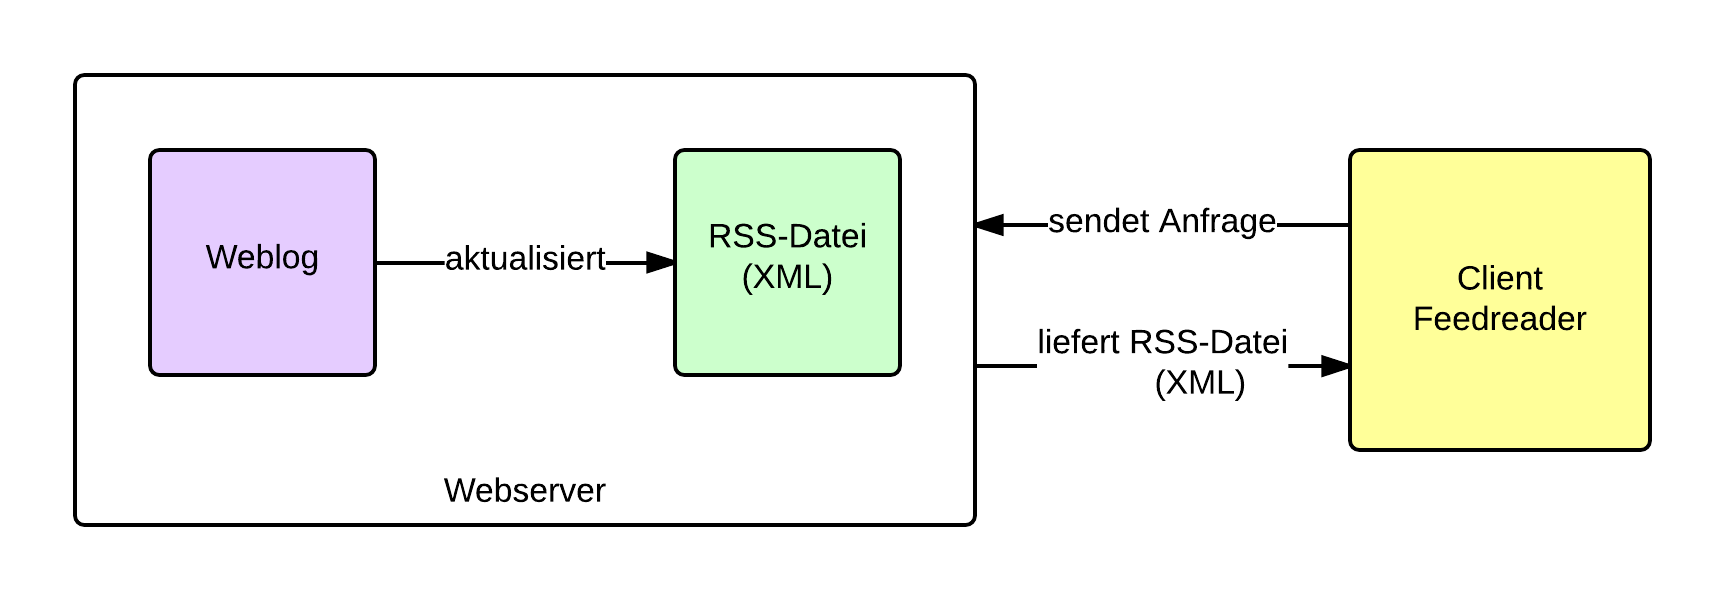
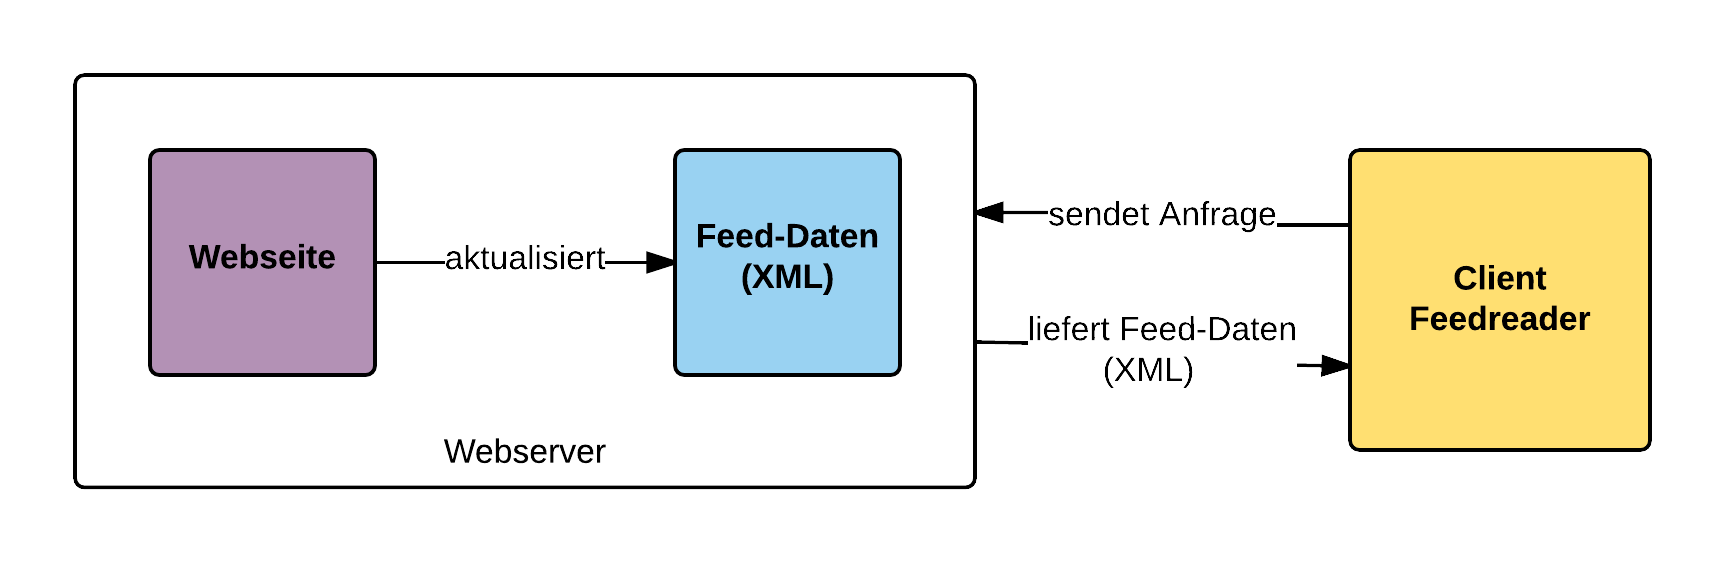
chapter IV modified

diff --git a/rst/IV/index.rst b/rst/IV/index.rst
@@ -14,10 +14,6 @@ Kapitels näher betrachtet.
 Ausgangssituation und Problemstellungen
 =======================================
 
-- Performance
-- update nur, wenn neue Daten vorhanden sind
-- Daten liegen in XML vor
-
 In Abbildung :num:`feedprinzip` ist das
 Funktionsprinzip eines Newsfeeds dargestellt. Es wird angenommen, dass eine
 beliebige Webseite ihre Änderungen über einen Newsfeed mitteilt. 
@@ -82,13 +78,19 @@ ist die URL nicht erreichbar oder der Download wird unterbrochen.
 Lösungsansätze
 ==============
 
+Für die genannten Problemstellungen werden im Folgenden Lösungsanzätze
+diskutiert.
+
+
 Synchroner im Vergleich mit asynchronem Ansatz
 ----------------------------------------------
 
-beschreiben, Ablauf etc.
 möglich mit Universal Feedparser, ...
-In Abbildung :num:`syncasync` ist der zeitliche Ablauf einer synchronen und
-asynchronen Ausführung zu sehen.
+
+Eine Alternative zum synchronen Download der Daten ist der asynchrone Ansatz.
+In Abbildung :num:`syncasync` ist der Ablauf beider Varianten zu sehen. Mit
+Hilfe der Abbildung werden beide Varianten vorgestellt und mögliche Vorzüge des
+asynchronen Ansatzes erläutert.
 
 
 .. _syncasync:
@@ -101,17 +103,77 @@ asynchronen Ausführung zu sehen.
     Schematische Darstellung des synchronen und asynchronen Ansatzes.
 
 
+Jeder Pfeil beschreibt den Ablauf folgender Aufgaben, die abgearbeitet werden
+sollen:
 
-Asynchroner Download
---------------------
-beschreiben, Ablauf etc.
-möglich mit libsoup, ...
+ * Klick auf einen Button, um Download auszulösen
+ * Download von Daten
+ * grafische Benutzeroberfläche: Daten aktualisieren, Benutzereingaben
+   entgegennehmen
+    
+Der klassische synchrone Ansatz verarbeitet die drei Aufgaben nacheinander. Die
+nächste Aufgabe wird erst ausgeführt, sobald die aktuelle beendet ist. Als
+erstes wird der Klick auf den Button verarbeitet, anschließend der Download und
+abschließend die Belange der grafischen Benutzeroberfläche. Ein
+Nachteil dieser Herangehensweise ist, dass während des
+Downloads keinerlei Aktualisierungen oder Eingaben auf der grafischen
+Benutzeroberfläche getätigt werden können. Da ein Download, im Vergleich zu
+einfachen Operationen, wie beispielsweise den Klick auf einen Button, relativ
+viel Zeit in Anspruch nimmt, ist das für die Performance der Anwendung suboptimal.
+
+Aus diesem Grund wird der Download häufig manuell in Teilpakete aufgeteilt.
+Diese Herangehensweise stellt der zweite Pfeil dar. Hier erfolgt ebenso als
+erstes der Klick auf den Button. Anschließend wird der Download, in der
+entsprechend angegebenen Größe abgearbeitet. Darauf folgt die Abarbeitung der
+Anliegen der grafischen Benutzeroberfläche. Dieser Wechsel zwischen Download und
+grafischer Benutzeroberfläche wird bis zum Abschluss des Downloads durchgeführt.
+Auf diese Weise kann der Nachteil des klassischen synchronen Ansatzes umgangen
+werden. Die grafische Benutzeroberfläche hat immer wieder Gelegenheit
+Aktualisierungen durchzuführen und Benutzereingaben entgegenzunehmen. Bei dieser
+Herangehensweise kommt jedoch ein anderer Nachteil hinzu. In der Abbildung wird
+bereits deutlich, dass dieser Ansatz, im Vergleich zum klassischen synchronen
+Ansatz, mehr Zeit in Aspruch nimmt. Nach der Abarbeitung von Aufgaben der
+grafischen Benutzeroberfläche kommt es zu Wartezeiten. Ein Grund dafür ist beispielsweise, dass
+der Download nicht sofort weitergeführt werden kann ... XX.
+
+Genau an dieser Stelle setzt der asynchrone Ansatz an. Der grundsätzliche
+Unterschied zum synchronen Ansatz ist, dass der asynchrone Ansatz nicht wartet,
+bis eine Aufgabe abgearbeitet ist. Diese Unterscheidung kann genutzt werden, um
+in den Wartephasen andere Aufgaben abzuarbeiten. Das hat zur Folge, dass der
+asynchrone Ansatz nicht mehr Zeit in Anspruch nimmt, als der synchrone Ansatz
+und zudem den Vorteil bietet, dass verschiedene Aufgaben im Wechsel ausgeführt
+werden können. Wie in der Abbildung zu sehen ist, nutzt der asynchrone Ansatz
+mögliche Wartezeiten beim Download, um Belange der grafischen Benutzeroberfläche
+abzuarbeiten.
+
+Um den Vorteil des asynchronen Ansatzes bei der Performance zu untermauern,
+wurden ....
 
 
-Prüfung auf Änderungen 
-----------------------
 
-etag und lastmodified
+Prüfung auf Änderungen der Feed-Daten 
+-------------------------------------
+
+Um zu vermeiden, dass Feed-Daten heruntergeladen werden, die keine
+Aktualisierungen enthalten, sind die Attribute *etag* und *lastmodified*
+hilfreich. In diesem Zusammenhang soll vorerst der Hintergrund dieser Attribute
+geklärt werden. 
+
+Das *Hypertext Transfer Protocol* (HTTP) stellt Methoden zur Verfügungen, die
+für die Kommunikation zwischen Client und Server eingesetzt werden. Der Client
+sendet eine Anfrage unter Angabe einer dieser Methoden und der Server sendet
+eine Antwort. Mit der Methode *GET* stellt der Client die Anfrage, die hinter
+der Quelle befindlichen Daten zu senden. Will man lediglich Informationen
+zur Quelle und nicht sofort die dazugehörigen Daten mitgeliefert bekommen, ist
+die Methode *HEAD* zu verwenden. In diesem Fall liefert der Server den *Header*
+der Quelle. Dieser sogenannte Header enthält die Attribute *etag* und
+*lastmodified*. Anhand dieser Attribute kann festgestellt werden, ob sich der Inhalt der Quelle
+aktualisiert hat.
+
+- Beispiel eines Headers, mit lastmodified bzw. etag.
+- Etag, lastmodified erklären
+
+
 
 Umsetzung in *gylfeed*
 ======================
